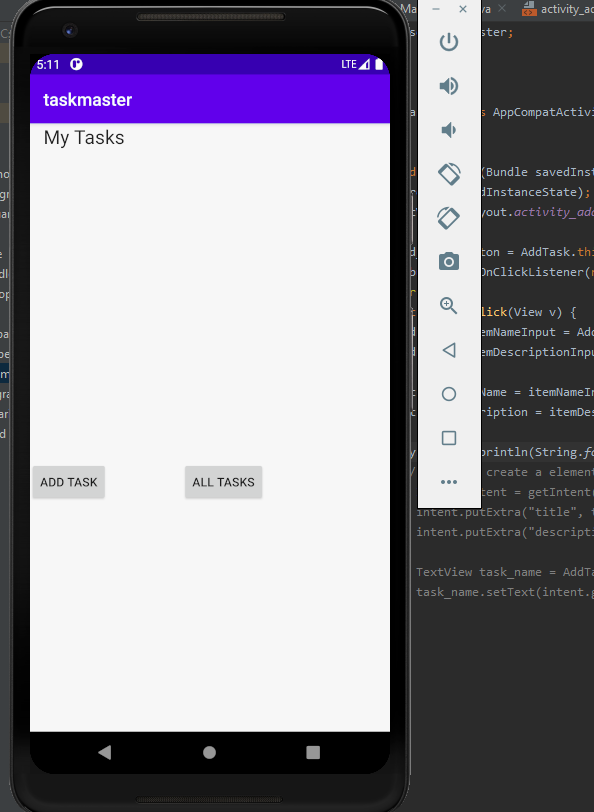
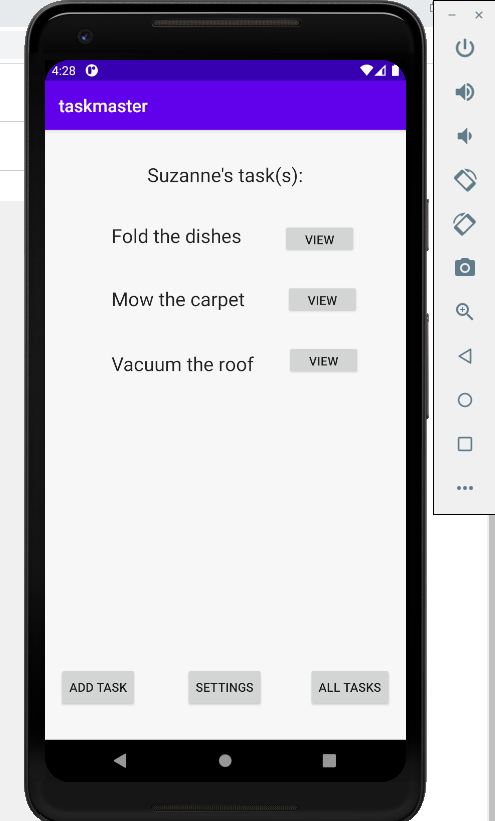
added new screenshots and change log

diff --git a/README.md b/README.md
@@ -1,4 +1,4 @@
-# TaskMaster change log
+# TaskMaster change log (I will delete it every other day, just to keep track of what I did the previous day)
 
 * 10/19/2020
 * Added 3 pages. (Main, all tasks, add task)
@@ -28,5 +28,6 @@
 ## Screen shots of working app
 * ![taskImage](screenshots/addTask.PNG)
 * ![taskImage](screenshots/homepage.PNG)
+* ![taskImage](screenshots/detailsPage.PNG)
 * ![taskImage](screenshots/allTask.PNG)
 * ![taskImage](screenshots/submitWorking.PNG)
